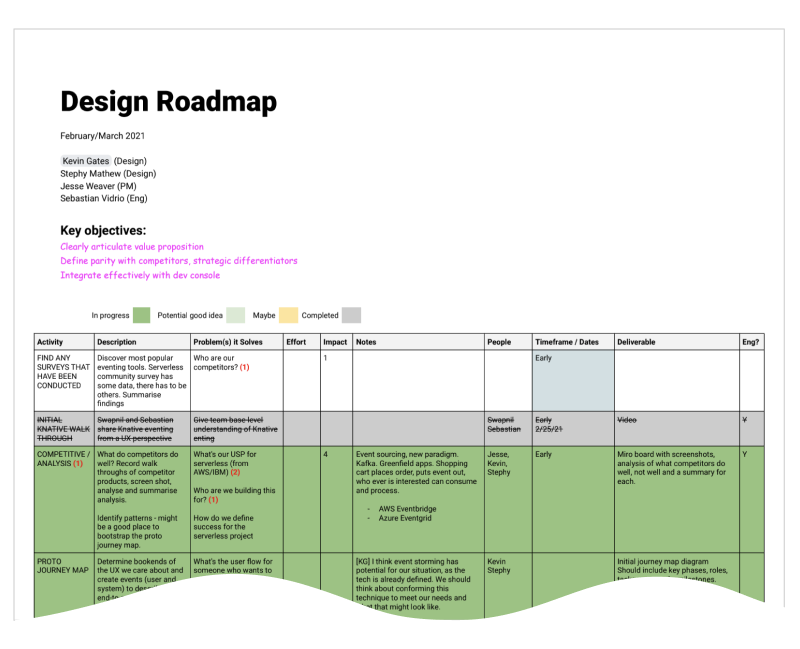
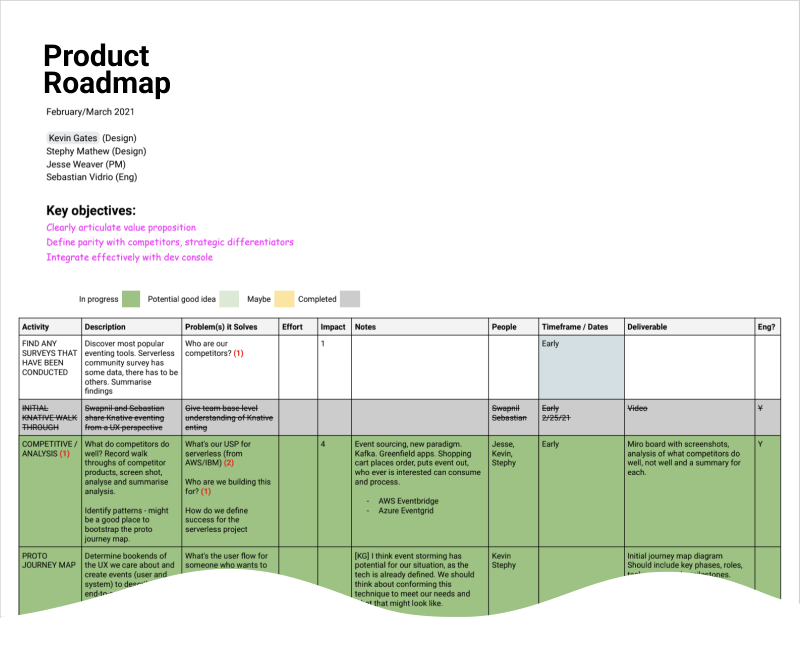
Add static screenshots

Changed region(s): [[0.0, 0.0308, 1.0, 0.9553]]

diff --git a/console.html b/console.html
@@ -76,7 +76,7 @@
 					This project started as a challenge posed by Pivotal's director of product for its London R&D org. She wanted me to do two things:
           <ol class="pt-4">
             <li class="pb-4 text-extra-light">
-              Discover the top problems engineers in large enterprise organizations have in getting the tools they need to build software. 
+              Discover the top problems engineers in large enterprises have in getting the tools they need to build software. 
             </li>
             <li class="pb-0 text-extra-light">
               Organize a product team anchored around those problems and come up with solutions.
@@ -181,16 +181,16 @@
   <div class="container-fluid-content-01 overflow-hidden" style="padding-bottom:0px;">
     <section class="row">
       <div class="col-md section-header-no-border pb-4">
-        Design Roadmapping
+        Project Planning
       </div>
     </section>
     <div class="row">
       <div class="col-md">
         <div class="headline-medium pb-5">
-          Applying Design Thinking to the Design Process
+          Collaboratively Laying Out a Product Roadmap
         </div>
         <div class="regular-lg pb-4">
-          We prioritized design work by first understanding the problems we faced. I facilitated a workshop in which engineers, PMs and design formed open questions around our central theme of developer tool access. We grouped the questions into themes, dot voted, and discussed. We later brainstormed activities and prioritized them.
+          We prioritized team work by first understanding the problems we faced. I facilitated a workshop in which engineers, PMs and design formed open questions around our central theme of developer tool access. We then prioritized problems and brainstormed activities.
         </div>
       </div>
     </div>
@@ -200,11 +200,11 @@
     <div class="row pb-4">
       <div class="col-md">
         <img src="images/console-02-01.png" class="img-fluid center-block d-block mx-auto" alt="image">
-        <div class="caption p-3">My design roadmapping workshops start with a dump-and-sort in which the whole team collectively agrees on top problems.</div>
+        <div class="caption p-3">My roadmapping workshops start with the whole team collectively agreeing on top problems, then brainstorming activities.</div>
       </div> 
       <div class="col-md">
         <img src="images/console-03-01.png" class="img-fluid center-block d-block mx-auto" alt="image">
-        <div class="caption p-3">Each design activity has a description, outcome, output and timeframe. (This design roadmap is from a more recent project.)</div>
+        <div class="caption p-3">Each product activity has a description, outcome, output and timeframe. (This doc is from a more recent project.)</div>
       </div> 
     </div>
   </div>
@@ -254,11 +254,11 @@
     <div class="row">
       <div class="col-md">
         <div class="headline-medium pb-5">
-          What’s it like for engineers in large enterprises to get the tools they need?
+          Discovering the Reality of the Enterprise Developer Experience 
         </div>
-        <!--<div class="regular-lg pb-4">
-          We started our discussion guide with questions from our design roadmapping, then brainstormed more open questions around our central inquiry. We wanted to find out things like “How do developers decide what tools they need?” and “What do they find frustrating?”
-        </div>-->
+        <div class="regular-lg pb-4">
+          In our roadmapping workshop, the concensus was that we needed to learn more about the app developer experience. 
+        </div>
         <div class="regular-lg pb-4">
           We interviewed around 30 customers, non-customers, and members of our consulting business who work on-site. The interviews were split between app devs and platform operators.
         </div>
@@ -270,7 +270,7 @@
     </div>
   </div>
 
-  <div class="container-fluid-content-02" style="max-width: 1200px; padding-bottom:240px; padding-top:0px;">
+  <div class="container-fluid-content-02" style="max-width: 1200px; padding-bottom:60px; padding-top:0px;">
     <div class="row pb-4">
       <div class="col-md">
         <img src="images/console-04-01.png" class="img-fluid center-block d-block mx-auto" alt="image">
@@ -283,12 +283,7 @@
     </div>
   </div>
 
-</div>
-
-
-<!--***********************************************-->
-
-
+<!--
   <div class="container-fluid-content-01 pb-5">
     <section class="row">
       <div class="col-md section-header-no-border pb-4">
@@ -304,19 +299,14 @@
       </div>
     </div>
   </div>
-
-  <div class="container-fluid-content-02" style="max-width: 1200px; padding-bottom:60px; padding-top:0px;">
-    <div class="row">
-      <div class="col-md">
-        <img src="images/console-05.png" class="img-fluid center-block d-block mx-auto" alt="image">
-        <div class="caption pt-3">Once our affinity map started taking shape, we asked for volunteers to help. In this picture, the engineer I collaborated with described affinity mapping to another engineer as “optimization through evolution”.</div>
-      </div> 
-    </div>
-  </div>
+-->
 
   <div class="container-fluid-content-02" style="max-width: 600px; padding-bottom:60px; padding-top:0px;">
     <div class="row">
       <div class="col-md">
+        <div class="headline-small pb-4">
+          Making Synthesis a Team Effort
+        </div>
         <div class="regular-lg pb-4">
           We rotated teammates onto the synthesis process so they could see for themselves how insights emerge from data. There are key benefits to doing this: 
         </div>
@@ -326,12 +316,21 @@
               <b>Transparency:</b> Having teammates rotate onto design activities lets them see how we discover patterns. That builds credibility, which then builds trust in the data and paves the way for evidence-based decision making.
             </li>
             <li class="pb-0">
-					   <b>Multiple perspectives:</b> We were doing research in a very technical domain. Engineers were in a good position to help us find patterns we might not have found ourselves.
+					   <b>Alternate perspectives:</b> We were doing research in a very technical domain. Engineers were in a good position to help us find patterns we might not have found ourselves.
             </li>
           </ul>
         </div>
         
       </div>
+    </div>
+  </div>
+
+  <div class="container-fluid-content-02" style="max-width: 1200px; padding-bottom:60px; padding-top:0px;">
+    <div class="row">
+      <div class="col-md">
+        <img src="images/console-05.png" class="img-fluid center-block d-block mx-auto" alt="image">
+        <div class="caption pt-3">Once our affinity map started taking shape, we asked for volunteers to help. In this picture, the engineer I collaborated with described affinity mapping to another engineer as “optimization through evolution”.</div>
+      </div> 
     </div>
   </div>
 
@@ -344,7 +343,7 @@
       
     </div>
   </div>
-
+</div>
 
 <!--***********************************************-->
 
@@ -500,13 +499,9 @@
 
 -->
 
-
-
- 
-
 <!--***********************************************-->
 
-<div class="container-fluid-content-01 pb-5">
+  <div class="container-fluid-content-01 pb-5">
 	  <section class="row">
 	    <div class="col-md section-header-no-border pb-4">
 	      Key Findings
@@ -521,7 +516,7 @@
 	        At the heart of everything was a fundemental conflict: While app developers want a wide variety of tools and the latest, hot technology, platform operators want to offer a small, manageable set of tools.
 	      </div>
         <div class="headline-small pb-4">
-          Developer Journey
+          The Journey as a Series of Conflicts Between Personas
         </div>
         <div class="regular-lg pb-4">
           We visualized the misalignment between personas as a cartoon argument. We then mapped the argument onto a skeleton version of the journey. That conveyed where on the journey misalignment can lead to bottle necks and frustration.
@@ -847,18 +842,25 @@
     <div class="row">
       <div class="col-md">
          <div class="headline-medium pb-5">
-          Determining Where We Can Have the Most Impact, In Three Steps
+          Determining Where We Can Have the Most Impact
         </div>
         <div class="regular-lg pb-4">
           With many customer problems at hand, we needed to decide which ones to tackle. We used three techniques:
 				</div>
         <div class="regular-lg pb-5">
           <ul>
+            <li class="pb-4">Surveying our field engineers to assess where we can have impact.</li>
+            <li class="pb-4">Determining where we, as a product team, can move the needle.</li>
+            <li class="pb-0">Assessing any engineering risks</li>
+          </ul>
+        </div>
+        <!--<div class="regular-lg pb-5">
+          <ul>
             <li class="pb-4"><b>Field survey:</b> We asked field engineers to choose the problems that, if solved, would have the highest impact on their customers. This helped us weight problems by customer impact.</li>
             <li class="pb-4"><b>Wheelhouse check:</b> We determined where an engineering-centric product team could have the most impact.</li>
             <li class="pb-0"><b>Engineering risk:</b> Engineers estimated potential complexity for each top problem at the outset. We wanted to take into account whether any given problem might have high technical risk.</li>
           </ul>
-        </div>
+        </div>-->
       </div>
     </div>
   </div>
@@ -880,7 +882,7 @@
     <div class="row">
       <div class="col-md">
       	<div class="headline-small pb-4">Top Customer Problems</div>
-        <div class="regular-lg pb-4">
+        <div class="regular-lg pb-5">
           By noon the first day, we had honed in on a handful of customer problems that were both high-impact (according to our field team survey) and problems for which an engineering R&D team could move the needle.
         </div>
 	    </div>

diff --git a/healthwatch.html b/healthwatch.html
@@ -320,7 +320,7 @@
     <div class="row">
       <div class="col-md">
           <div class="regular-lg pb-5">
-            This was the beginning of what I would later call a design roadmap. The roadmap helped us agree on priorities and map them out on a calendar, which helped us manage stakeholder expectations. 
+            The roadmap helped us agree on priorities and map them out on a calendar, which helped us manage stakeholder expectations. 
           </div>
           <!--<div class="regular-lg pb-5">
             (Read more about how I use design roadmapping <a href="console.html#roadmap" 
@@ -650,13 +650,13 @@
 <div class="container-fluid-content-01" style="max-width: 600px; padding-bottom: 0px;">
   <section class="row">
     <div class="col-md section-header-no-border pb-4">
-      Journey Mapping
+      Experience Mapping
     </div>
   </section>
   <div class="row">
     <div class="col-md">
-      <div class="headline-medium pb-5" style="max-width: 400px">
-        <a id="journey"/>A Non-Linear User Experience
+      <div class="headline-medium pb-5" style="max-width: 600px">
+        <a id="journey"/>A Non-Linear Journey
       </div>
     </div>
   </div>
@@ -666,15 +666,18 @@
     <div class="col-md">
       <img src="images/healthwatch-09.png" class="img-fluid" alt="image"> 
       <div class="caption pt-3" style="max-width:600px;">
-        Our journey map captured the non-linear nature of the user experience. 
+        Our experience map captured the non-linear nature of the user experience. 
           It also conveyed that we (e. Summary Dashboard and d. Detail Dashboards) were part of a larger ecosystem.</div>
     </div>
   </div>
 </div>
 <div class="container-fluid-content-02" style="max-width: 600px; padding-top: 0px; padding-bottom: 0px;">
   <div class="row">
+    <div class="regular-lg pb-4">
+      Our experience map captured that we would be part of a larger ecosystem: When there is a potential issue with the platform, our users go on a journey through an constellation of alerts, dashboards, and Slack conversations. 
+    </div>
     <div class="regular-lg pb-5">
-      Our journey map conveyed the non-linear nature of the user experience. It also captured that we would be part of a larger ecosystem: When there is a potential issue with the platform, our users go on a journey through an constellation of alerts, dashboards, and Slack conversations. Our work would manifest as touchpoints along that journey&mdash;sometimes as UIs, sometimes not.
+      Our work would manifest as touchpoints along that journey&mdash;sometimes as UIs, sometimes not.
     </div>
   </div>
 </div>

diff --git a/index.html b/index.html
@@ -98,7 +98,7 @@
 						I've worn many hats. At Google, I helped create the company's early business intelligence tools. For the Obama 2012 campaign, I led the creation of an app that reached millions of voters. More recently, I applied design thinking to the complexities of cloud computing at Pivotal and VMWare.
 					</div>
 					<div class="pb-4 regular-lg">
-          	I'm always open to new ventures and meeting like-minded people. Feel free to reach out: kgates@gmail.com 
+          	I'm always open to new adventures and meeting like-minded people. Feel free to reach out: kgates@gmail.com 
         	</div>
         	<!--
 					<div class="regular-lg pb-4">
@@ -136,15 +136,15 @@
 							font-weight:200; 
 							color:#333; 
 							text-transform: uppercase;">
-								2020 - 10 Weeks 
+								2020 - 7 Weeks 
 						</div>
 					</div>
 					<div style="flex:1; display: flex; flex-direction: column;">
 						<div style="flex:1;"></div>
 						<div>
-							<div class="section-card-header pb-3">Pivotal Developer Console Vision</div>
+							<div class="section-card-header pb-3">Pivotal Developer Console</div>
 							<div class="" style="font-size: 1em; line-height: 1.5; ">
-								How I guided a product team through an open-ened problem space to reimagine developer tool access in the cloud.
+								How I guided a product team through a large, complex problem space to reimagine developer tool access in the cloud.
 							</div>
 						</div>
 						<div style="flex:1;"></div>
@@ -204,7 +204,7 @@
 						<div>
 							<div class="section-card-header pb-3">Pivotal HealthWatch</div>
 							<div class="" style="font-size: 1em; line-height: 1.5; ">
-								Making co-creation and rapid prototyping part of a daily routine for the design of an enterprise analytics product.
+								Using co-creation and rapid prototyping to design an enterprise analytics product.
 								<!--How we gained 100% product adoption for a complex analytics product through research, co-creation, and rapid prototyping.-->
 							</div>
 						</div>

diff --git a/obama.html b/obama.html
@@ -49,7 +49,7 @@
     <div class="row">
       <div class="col-md">
         <div class="regular-lg pb-3">
-          When we kicked off this project, we started with research findings from the campaign's headquarters in Chicago:
+          This project all started with some research findings from the campaign's headquarters in Chicago:
           <ol class="pt-4">
             <li class="pb-4">
               Voters respond favorably to talking points about Obama's achievements. 
@@ -61,7 +61,7 @@
         </div> 
         
         <div class="regular-lg pb-4">
-          We were given a big data set about the president's achievements, but didn't have much more than a vague direction: Make something voter-facing, and make it location-based. 
+          In the beginning, all we had was a big data set about the president's achievements, but not much more than a vague direction: Make something voter-facing, and make it location-based. 
         </div>
         <div class="regular-lg pb-0">
           It was June of 2012. We had four months of runway and no idea where we would end up. The election loomed.
